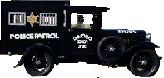
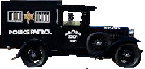
Add functional police navigation, albeit with teleportation until precise maneuvering complete

diff --git a/src/game/game.js b/src/game/game.js
@@ -7,7 +7,7 @@ class Game {
     this.bullets = [];
     this.player = new Player(100, 350, './src/game/assets/car3.png');
     this.civilian1 = new Civilian(
-      100,
+      720,
       400,
       civilianCarTypes['SUV'].imgPath,
       civilianCarTypes['SUV']
@@ -17,6 +17,12 @@ class Game {
       450,
       civilianCarTypes['Buick'].imgPath,
       civilianCarTypes['Buick']
+    );
+    this.police = new Police(
+      1,
+      600,
+      policeCarTypes['Paddy Wagon'].imgPath,
+      policeCarTypes['Paddy Wagon']
     );
     this.objectID = 1;
     this.roadMaxY = 500;
@@ -61,14 +67,21 @@ class Game {
     this.player.preload();
     this.civilian1.preload();
     this.civilian2.preload();
+    this.police.preload();
   }
 
   setup() {
     this.player.setup();
     this.civilian1.setup();
     this.civilian2.setup();
-    this.activeVehicles = [this.player, this.civilian1, this.civilian2];
-    this.activeCivilians = [this.civilian1, this.civilian2];
+    this.police.setup();
+    this.activeVehicles = [
+      this.player,
+      this.civilian1,
+      this.civilian2,
+      this.police,
+    ];
+    this.activeCivilians = [this.player, this.civilian1, this.civilian2];
     this.activeVehicles.forEach(vehicle => {
       vehicle.objectID = this.objectID;
       this.objectID += 1;
@@ -102,14 +115,14 @@ class Game {
     this.background.draw();
     this.road.draw();
     this.activeVehicles.sort((a, b) => a.y - b.y);
-    if (frameCount > 180 && frameCount < 1200 && frameCount % 200 === 0) {
+    if (frameCount > 180 && frameCount % 200 === 0) {
       // every 3.3 seconds
       this.spawnCivilian();
     }
-    if (frameCount > 1200 && frameCount % 120 === 0) {
-      // every 2 seconds
-      this.spawnCivilian();
-    }
+    // if (frameCount > 1200 && frameCount % 120 === 0) {
+    //   // every 2 seconds
+    //   this.spawnCivilian();
+    // }
     this.activeVehicles.forEach((subjectVehicle, subjectIndex) => {
       // remove vehicles located off left side of the canvas
       if (

diff --git a/src/game/police.js b/src/game/police.js
@@ -3,6 +3,36 @@ class Police extends Vehicle {
     super(x, y, carStylePath, carType);
     this.carType = carType;
     this.health = carType.health;
+    this.currentLaneIndex = 0;
+    this.isPolice = true;
+    this.bonusSpeed = 1.7;
+  }
+
+  draw() {
+    let longestLane = -Infinity;
+    let longestAdjacent = -Infinity;
+    game.sonarLanes.forEach((lane, laneIndex) => {
+      if (lane > longestLane && lane > game.sonarLanes[this.currentLaneIndex]) {
+        longestLane = lane;
+        this.currentLaneIndex = laneIndex;
+      }
+      // if (
+      //   (lane > game.sonarLanes[this.currentLaneIndex] &&
+      //     laneIndex <= this.currentLaneIndex + 1) ||
+      //   laneIndex >= this.currentLaneIndex - 1
+      // ) {
+      //   this.currentLaneIndex = laneIndex;
+      // }
+    });
+    if (this.targetX < 50) {
+      this.bonusSpeed = 2;
+    } else {
+      this.bonusSpeed = 1.6;
+    }
+    if (frameCount % 20 === 0 && frameCount > 60) {
+      this.targetY = game.trafficLanes[this.currentLaneIndex];
+    }
+    super.draw(this.bonusSpeed);
   }
 
   maneuver() {}

diff --git a/src/game/constants.js b/src/game/constants.js
@@ -19,6 +19,16 @@ function cotan(x) {
 //   '-5': 4,
 // };
 
+const policeCarTypes = {
+  'Paddy Wagon': {
+    name: 'Paddy Wagon',
+    imgPath: './src/game/assets/policepaddywagon.png',
+    health: 300,
+    drivingStyle: 'righteous',
+    wreckNum: 0, // TODO: replace wreck with police specific wreck
+  },
+};
+
 const civilianCarTypes = {
   SUV: {
     name: 'SUV',

diff --git a/src/game/bullet.js b/src/game/bullet.js
@@ -62,7 +62,7 @@ class SonarParticle extends Bullet {
     let collision = false;
     if (!collision) {
       game.activeVehicles.find(vehicle => {
-        if (isCollision(this, vehicle)) {
+        if (isCollision(this, vehicle) && !vehicle.isPolice) {
           game.sonarEmitters[this.emitterLane].emitterParticles.splice(
             particleIndex,
             1

diff --git a/src/game/vehicles.js b/src/game/vehicles.js
@@ -25,10 +25,11 @@ class Vehicle {
     this.originalY = this.y;
   }
 
-  draw() {
+  draw(bonusSpeed = 0) {
     // TODO: make this min/max predicated of the type of vehicle
     let min = -3;
     let max = -0.5;
+    this.targetX += bonusSpeed;
     if (!this.wrecked) {
       this.targetX += Math.floor(Math.random() * (max - min + 1) + min);
     }
